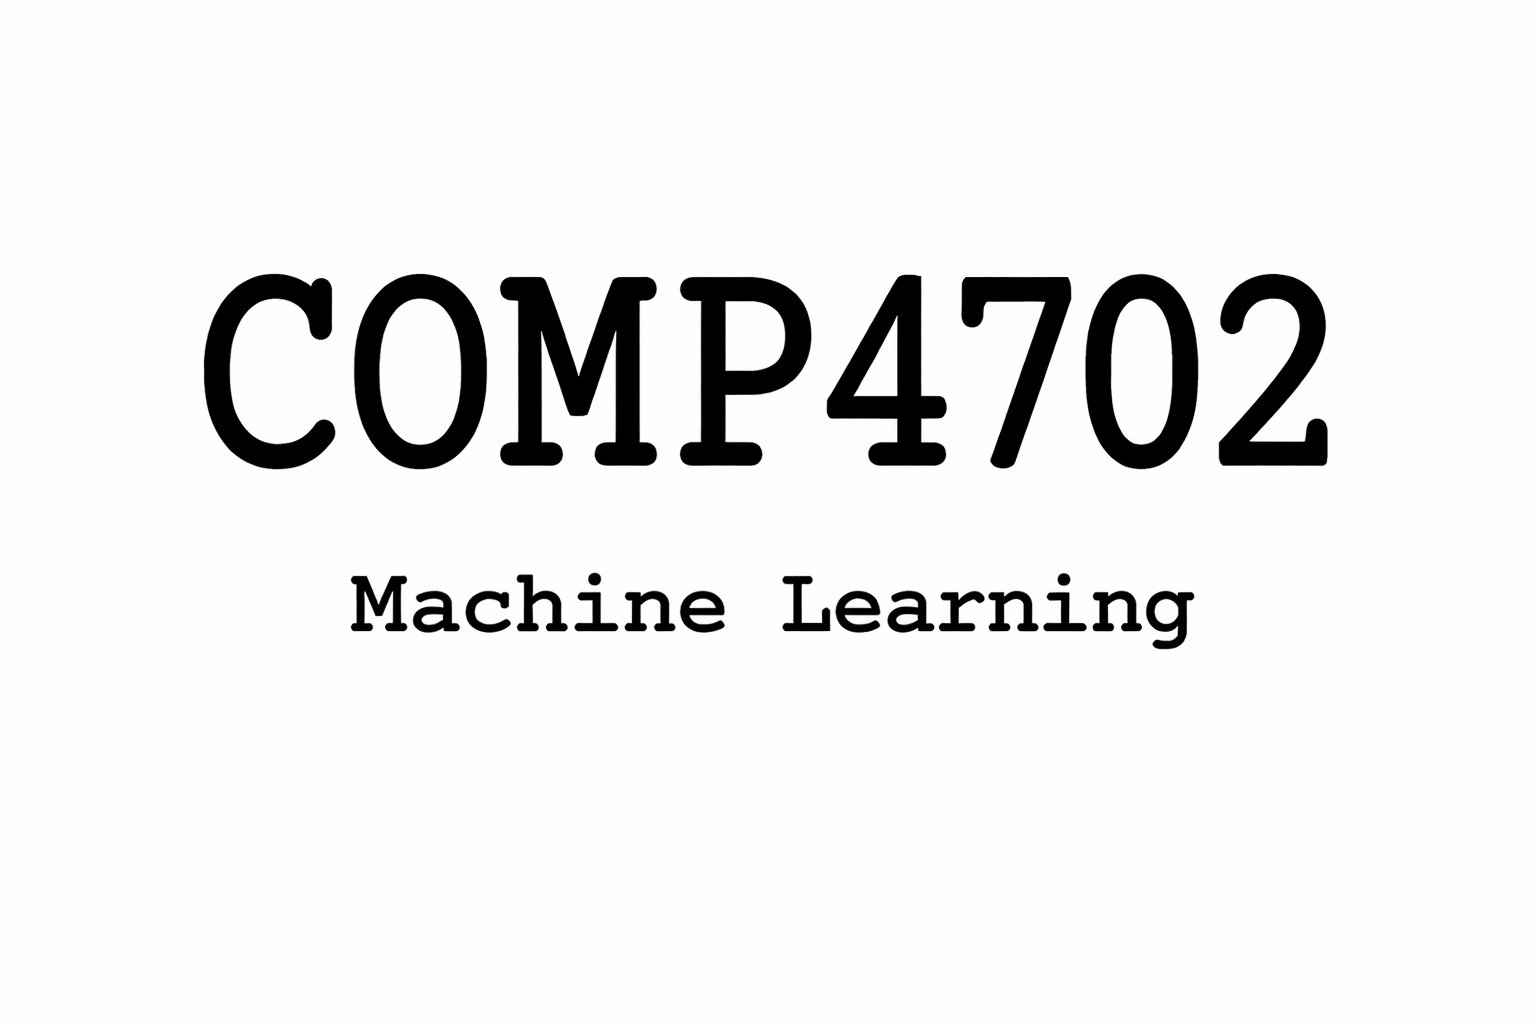
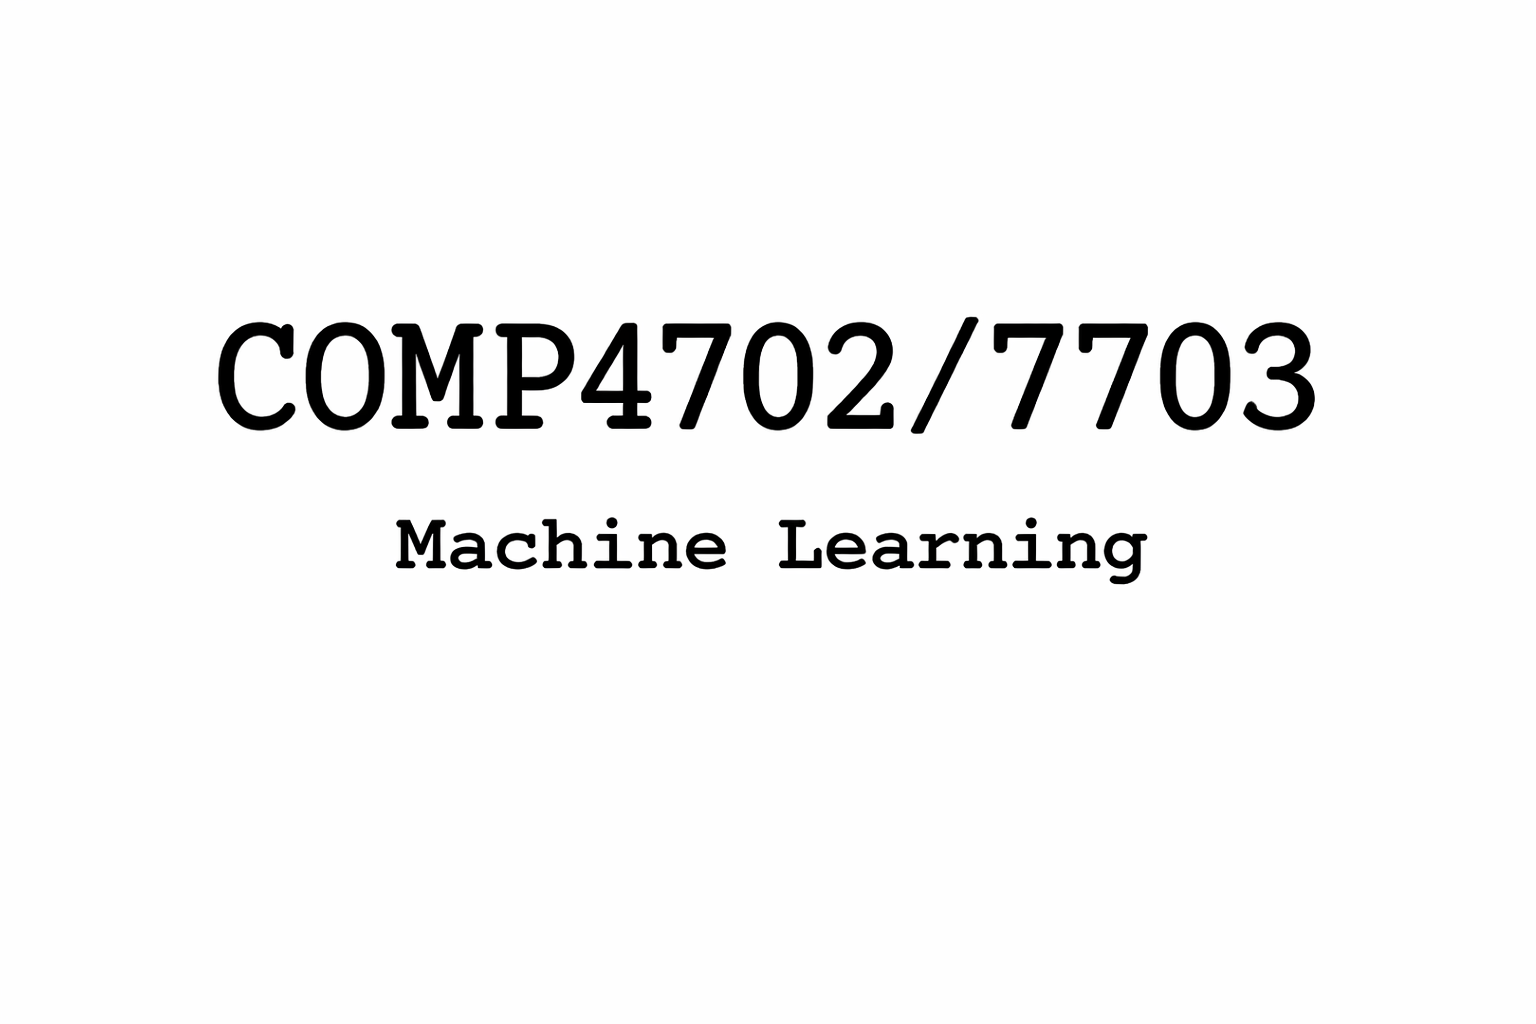
Added work

Changed region(s): [[0.125, 0.25, 0.875, 0.4688], [0.5, 0.5, 0.7812, 0.6562], [0.2188, 0.5, 0.4688, 0.625]]

diff --git a/content/teaching/COMP2048/index.md b/content/teaching/COMP2048/index.md
@@ -1,0 +1,16 @@
+---
+title: Theory of Computing at The University of Queensland
+summary: Core concepts of the Theory of Computation, including automata, formal languages, Turing machines, computational complexity, and Quantum Computing
+date: "2026-02-28T00:00:00Z"
+reading_time: false
+share: false
+commentable: false
+editable: false
+tags: ["academic"]
+
+image:
+  focal_point: ""
+  preview_only: false
+---
+
+I work as a Casual Academic where I get the opportunity to teach Computational Theory to students. I get to guide them through rigorous mathematical reasoning, proof techniques, and the exploration of decidability and complexity classes like P and NP. I also introduce alternative models such as quantum computing. Alongside teaching, I mark assignments and provide feedback to help students deepen their understanding and develop strong analytical skills. My role is to support students both in mastering theoretical material and in applying it to solve challenging computational problems.

diff --git a/content/teaching/machine-learning/index.md b/content/teaching/machine-learning/index.md
@@ -1,6 +1,6 @@
 ---
 title: Machine Learning at The University of Queensland
-summary: 
+summary: "Classification, regression, optimisation, neural networks, deep learning, unsupervised learning, semi-supervised learning, clustering, dimensionality reduction and generative models. The implementation of machine learning techniques, experimentation and practical application are a central theme of the course."
 date: "2026-02-28T00:00:00Z"
 reading_time: false
 share: false
@@ -12,3 +12,5 @@ image:
   focal_point: ""
   preview_only: false
 ---
+
+I work as a Casual Academic for COMP4702/7703 Machine Learning, where I help students learn the foundational machine and statistical learning concepts both mathematically and how to implement them in Python using relevant ML libraries. I help students both on campus and on our online discussion board where they can ask questions. 

diff --git a/content/teaching/COMP3400/index.md b/content/teaching/COMP3400/index.md
@@ -1,0 +1,16 @@
+---
+title: Functional and Logic Programming at The University of Queensland
+summary: An introduction to functional and logic programming languages. Relative merits such as extensibility vs. verifiability vs. efficiency. Computational models and semantics.
+date: "2026-02-28T00:00:00Z"
+reading_time: false
+share: false
+commentable: false
+editable: false
+tags: ["academic"]
+
+image:
+  focal_point: ""
+  preview_only: false
+---
+
+In this particular course, I work as a Casual Academic where I help students transition from the imperative paradigm to the functional paradigm. I help them learn Haskell specifically, where induction/recursion is the primary tool to solve complex problems, rather loops whic is a core tool in imperative languages. I deliver practicals where I help them, and also mark assessements providing constructive feedback.
